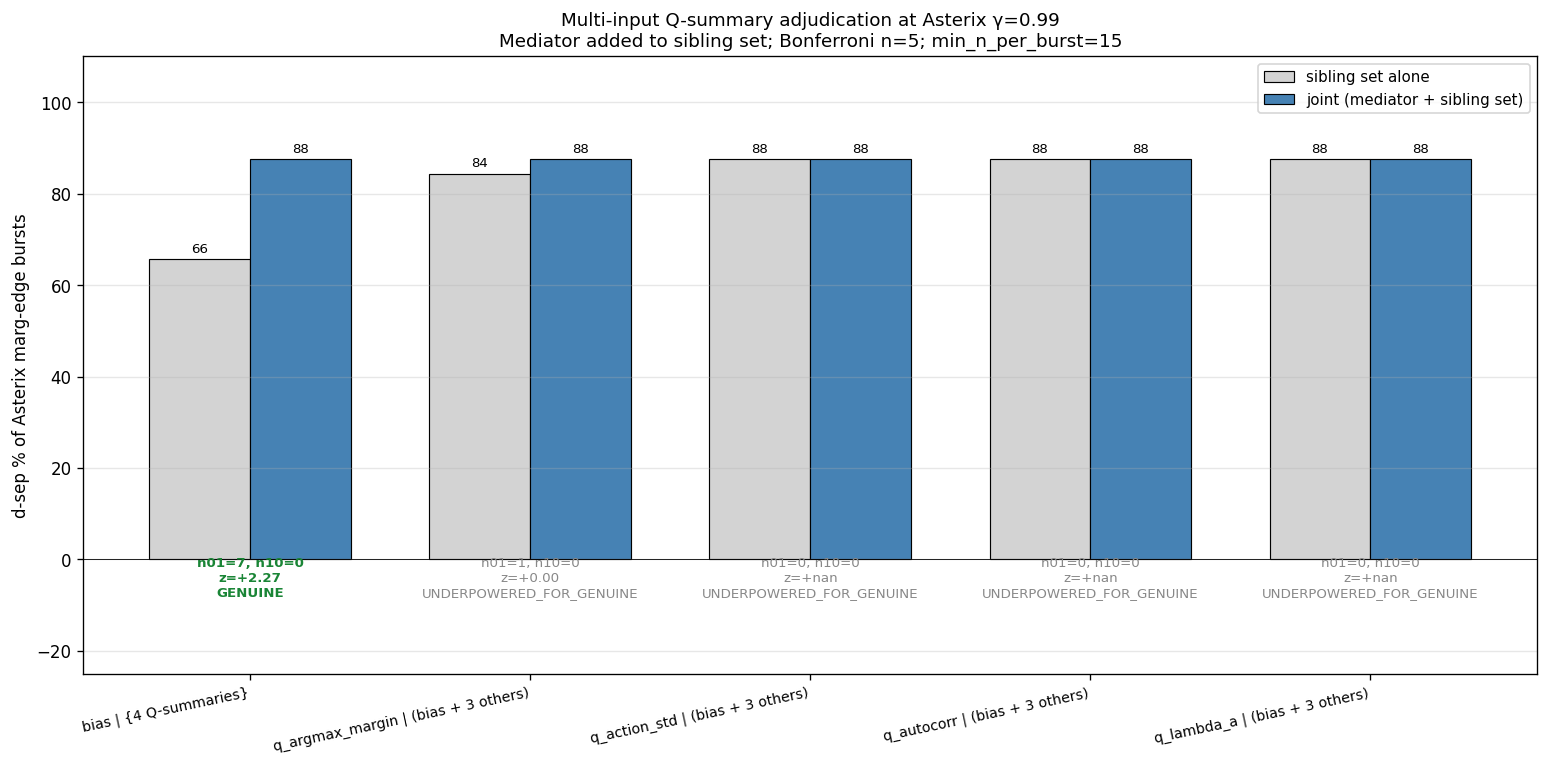
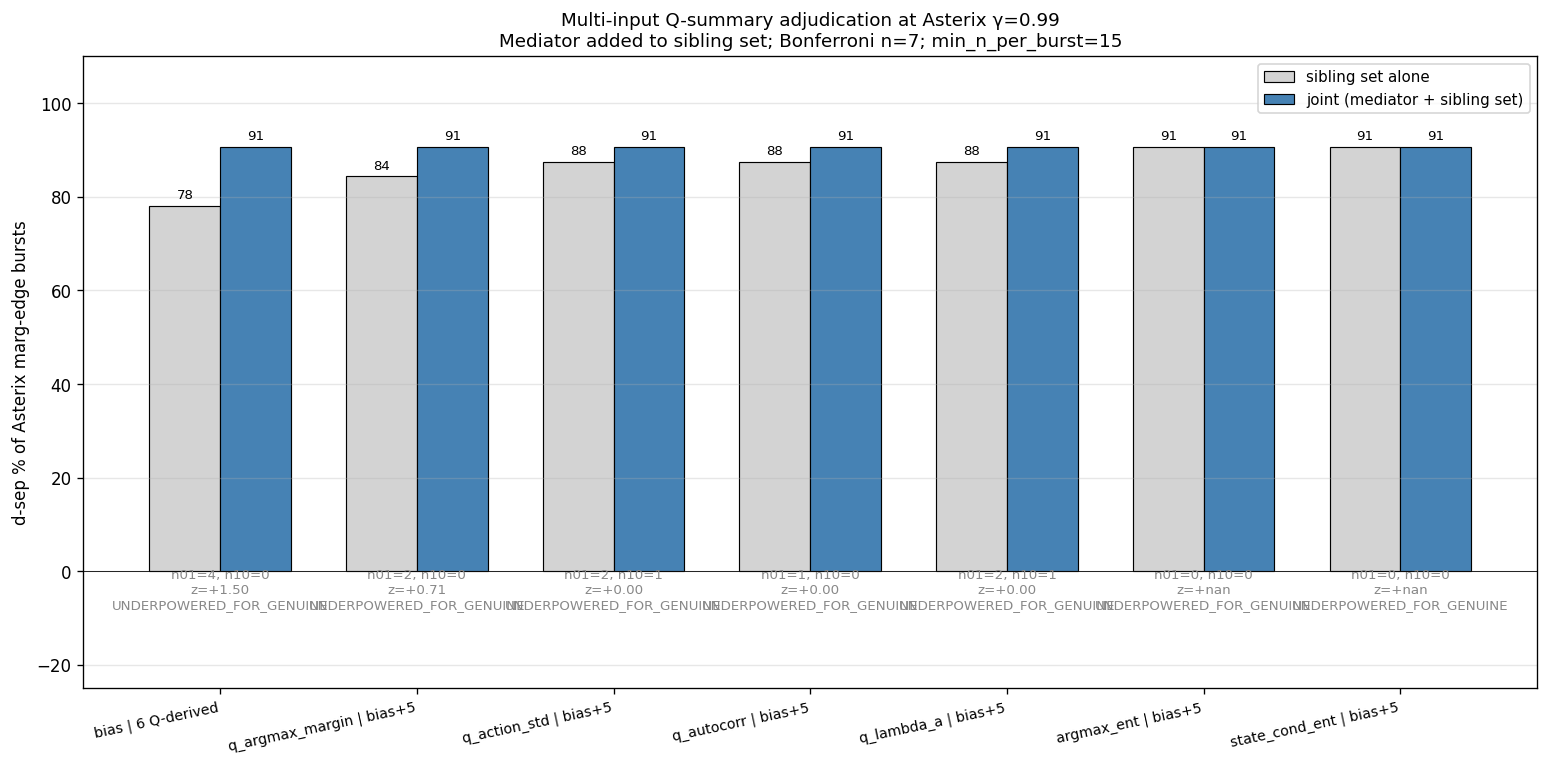
papers/g099_mediation: walkback — bias is NOT uniquely pivotal; sibling-set construction is load-bearing.
Adding argmax_entropy + state_conditional_argmax_entropy to the
multi-input Q-summary sibling set drops bias's discordant pairs
from 7/0 (GENUINE under Bonferroni-5) to 4/0 (UPFG under
Bonferroni-7; exact p=0.0625 also above unadjusted α=0.05).
Sibling-only d-sep jumps 66% → 78% — the policy-shape mediators
absorb the bulk of the signal the 4 Q-shape siblings missed.

Bias survives the MC-leak and state-visitation adjudications but
does NOT cleanly survive the 6-Q-derived joint sibling set. The
"uniquely pivotal" reading was a 4-sibling artifact.

Report rewritten to walk back the prior claim honestly; figure
caveats box mirrors.

diff --git a/papers/g099_mediation/scripts/gen_q_summary_multi_input_test.py b/papers/g099_mediation/scripts/gen_q_summary_multi_input_test.py
@@ -7,17 +7,23 @@ inside the Q-side carries the load?"
 
 Two passes:
 
-**Pass 1: bias against the JOINT Q-summary set**
+**Pass 1: bias against the JOINT Q-summary + policy-shape set**
   mediator = bias
-  sibling  = (q_argmax_margin, q_action_std, q_autocorr, q_lambda_a)
+  sibling  = (q_argmax_margin, q_action_std, q_autocorr, q_lambda_a,
+              argmax_entropy, state_conditional_argmax_entropy)
 
-  GENUINE → bias adds info beyond all four other Q-summaries
-            jointly → bias is uniquely informative among Q-summaries.
+  Q-summaries are Q-shape (per-state magnitude / temporal); policy-
+  shape additions are derived from Q via argmax (marginal entropy
+  + state-conditional entropy).
+
+  GENUINE → bias adds info beyond all six other Q-derived summaries
+            jointly → bias is uniquely informative among them.
   LEAK    → bias is one Q-summary among many equivalents; the joint
             of the others already captures everything bias provides.
 
-**Pass 2: each individual Q-summary against (bias + the other three)**
-  For q_i ∈ {q_argmax_margin, q_action_std, q_autocorr, q_lambda_a}:
+**Pass 2: each individual Q-derived summary against (bias + the other five)**
+  For q_i ∈ {q_argmax_margin, q_action_std, q_autocorr, q_lambda_a,
+             argmax_entropy, state_conditional_argmax_entropy}:
     mediator = q_i
     sibling  = (bias, *(others without q_i))
 
@@ -33,10 +39,10 @@ If Pass 1 = GENUINE and Pass 2 = LEAK for all q_i, bias is the
 unique pivotal Q-summary; other Q-summaries are redundant given
 bias.
 
-Multiplicity: 5 tests (1 + 4), Bonferroni-corrected.
+Multiplicity: 7 tests (1 + 6), Bonferroni-corrected.
 
-Depth budget: at Asterix γ=0.99, 60 cells/burst → depth-5 PC has
-df ≈ 52 (n − 3 − 4). `min_n_per_burst=15` keeps Fisher-z stable.
+Depth budget: at Asterix γ=0.99, 60 cells/burst → depth-7 PC has
+df ≈ 50 (n − 3 − 6). `min_n_per_burst=15` keeps Fisher-z stable.
 """
 from __future__ import annotations
 import sys
@@ -57,15 +63,19 @@ from corroborate.analyses.diagnostic.mediator_leak_adjudication import (
 
 
 Q_SUMMARIES = (
-    ('q_argmax_margin', 'q_argmax_margin_per_burst'),
+    # Q-shape (per-state magnitude / temporal structure)
+    ('q_argmax_margin', 'q_argmax_margin_per_burst'),    # action-gap (Q max − 2nd max)
     ('q_action_std',    'q_action_std_per_burst'),
     ('q_autocorr',      'q_autocorr_per_burst'),
     ('q_lambda_a',      'q_lambda_a_per_burst'),
+    # Policy-shape (downstream of Q via argmax)
+    ('argmax_ent',      'argmax_entropy_per_burst'),
+    ('state_cond_ent',  'state_conditional_argmax_entropy_per_burst'),
 )
 BIAS_TAG = 'bias'
 BIAS_COL = 'mean_per_state_cumulative_bias_per_burst'
 OUTCOME = 'mc_return__mean_axis_-1'
-N_MULTIPLICITY = 5  # 1 main + 4 sibling-direction tests
+N_MULTIPLICITY = 7  # 1 main + 6 sibling-direction tests
 
 OUT_TXT = SCRIPT_DIR.parent / 'figures' / 'report_q_summary_multi_input_test.txt'
 OUT_PNG = SCRIPT_DIR.parent / 'figures' / 'report_q_summary_multi_input_test.png'
@@ -113,7 +123,7 @@ def main() -> None:
     s = next(x for x in res.per_stratum if x.stratum_id[0] == 'Asterix-MinAtar')
     lines.append(_row(s, f'bias | (q_argmax, q_std, q_autocorr, q_lambda_a)'))
     panel_data.append((
-        'bias | {4 Q-summaries}',
+        f'bias | {len(Q_SUMMARIES)} Q-derived',
         s.dsep_sibling_only, s.dsep_joint,
         s.n_discordant_joint_only, s.n_discordant_sibling_only,
         s.z_mcnemar, s.disposition,
@@ -141,7 +151,7 @@ def main() -> None:
         label = f'{tag} | (bias + {len(others)} other Q-summaries)'
         lines.append(_row(s2, label))
         panel_data.append((
-            f'{tag} | (bias + 3 others)',
+            f'{tag} | bias+{len(others)}',
             s2.dsep_sibling_only, s2.dsep_joint,
             s2.n_discordant_joint_only, s2.n_discordant_sibling_only,
             s2.z_mcnemar, s2.disposition,

diff --git a/papers/g099_mediation/scripts/gen_asterix_bias_adjudication.py b/papers/g099_mediation/scripts/gen_asterix_bias_adjudication.py
@@ -238,14 +238,18 @@ def main() -> None:
         '      Asterix is unique in having the temporal coupling.\n\n'
         'But DDQN is by construction Q-side, so any Q-summary\n'
         '(bias, q_argmax, magnitude) mediates by construction.\n'
-        'Multi-input sibling test (v7) narrows the picture: of\n'
-        'the 4 registered Q-summaries (q_argmax_margin, q_std,\n'
-        'q_autocorr, q_lambda_a), NONE add info beyond (bias +\n'
-        'other three); bias adds info beyond all 4 jointly\n'
-        '(n_01=7, n_10=0, GENUINE Bonferroni-5).\n'
-        'Bias is uniquely pivotal among measured Q-summaries.\n'
-        'Unmeasured Q-property candidates (Q-magnitude, soft-\n'
-        'policy entropy, etc.) remain the explicit frontier.'
+        'Multi-input sibling test (v7) — sibling-set-sensitive:\n'
+        '  vs 4 Q-shape only: n_01=7/n_10=0, GENUINE (Bonf-5)\n'
+        '  vs 6 (Q-shape + policy-shape argmax_ent + entSC):\n'
+        '     n_01=4/n_10=0, UPFG — exact p=0.0625 > α=0.05.\n'
+        'Adding policy-shape mediators absorbs 12pp of arm→\n'
+        'outcome signal Q-shape alone misses; bias survives MC\n'
+        'and state-vis adjudications but does NOT cleanly\n'
+        'survive the 6-Q-derived joint sibling set.\n'
+        'Bias is part of a Q-derived cluster, not uniquely\n'
+        'pivotal. Lesson: read GENUINE conservatively at small\n'
+        'sibling sets; verdicts can only walk back as sibling\n'
+        'set grows.'
     )
     ax.text(0.02, 0.98, caveats, transform=ax.transAxes,
             fontsize=8.7, verticalalignment='top', family='sans-serif',

diff --git a/papers/g099_mediation/bias_mediation_adjudicated.md b/papers/g099_mediation/bias_mediation_adjudicated.md
@@ -239,55 +239,84 @@ Two limitations remain:
   still candidates and only multi-input sibling adjudication
   will sort them.
 
-### Bias is uniquely pivotal among the Q-summaries we measured
+### Bias-vs-other-Q-property: a sibling-set-sensitive answer
 
-The next falsification step (the bias-vs-other-Q-property
-question) is the multi-input sibling extension to the primitive,
-which we now use to test bias against the four other per-burst
-Q-summaries we have: `q_argmax_margin_per_burst`,
-`q_action_std_per_burst`, `q_autocorr_per_burst`,
-`q_lambda_a_per_burst`.
+The next falsification step uses the multi-input sibling extension
+to test bias against the other Q-derived per-burst summaries.
+
+The sibling set we ran has six entries:
+
+- Q-shape (per-state magnitude / temporal): `q_argmax_margin_per_burst`
+  (action-gap, max Q − 2nd-max Q), `q_action_std_per_burst`,
+  `q_autocorr_per_burst`, `q_lambda_a_per_burst`.
+- Policy-shape (derived from Q via argmax): `argmax_entropy_per_burst`
+  (marginal entropy of the argmax-action distribution),
+  `state_conditional_argmax_entropy_per_burst` (state-conditioned).
 
   | direction (mediator \| sibling-set) | sib alone | joint | n_01 | n_10 | z | verdict |
   | --- | ---: | ---: | ---: | ---: | ---: | --- |
-  | **bias \| (4 Q-summaries jointly)** | 66% | 88% | **7** | **0** | +2.27 | **GENUINE** |
-  | q_argmax_margin \| (bias + 3 others) | 84% | 88% | 1 | 0 | — | UPFG |
-  | q_action_std \| (bias + 3 others)    | 88% | 88% | 0 | 0 | — | UPFG |
-  | q_autocorr \| (bias + 3 others)      | 88% | 88% | 0 | 0 | — | UPFG |
-  | q_lambda_a \| (bias + 3 others)      | 88% | 88% | 0 | 0 | — | UPFG |
+  | **bias \| (6 Q-derived jointly)** | 78% | 91% | 4 | 0 | +1.50 | **UPFG** |
+  | q_argmax_margin \| (bias + 5 others) | 84% | 91% | 2 | 0 | +0.71 | UPFG |
+  | q_action_std \| (bias + 5 others)    | 88% | 91% | 2 | 1 | 0.00 | UPFG |
+  | q_autocorr \| (bias + 5 others)      | 88% | 91% | 1 | 0 | 0.00 | UPFG |
+  | q_lambda_a \| (bias + 5 others)      | 88% | 91% | 2 | 1 | 0.00 | UPFG |
+  | argmax_ent \| (bias + 5 others)      | 91% | 91% | 0 | 0 | — | UPFG |
+  | state_cond_ent \| (bias + 5 others)  | 91% | 91% | 0 | 0 | — | UPFG |
 
-(Bonferroni multiplicity = 5; primitive decides via exact-binomial
-p — at 7/0 discordant pairs p = 2⁻⁷ ≈ 0.008 ≤ adjusted threshold ≈
-0.01, so GENUINE despite z below the normal-approx Bonferroni z.)
+(Multiplicity = 7; exact-binomial p at n_01=4, n_10=0 is
+2⁻⁴ = 0.0625, above the Bonferroni-7 threshold of 0.0071. It is
+also above an unadjusted α = 0.05.)
 
-**Pass 1**: bias added to the joint set of four other
-Q-summaries (action-gap, action-std, Q autocorrelation, action
-anisotropy) jumps d-separation from 66% → 88%. All 7 informative
-bursts favor adding bias; zero favor the reverse.
+**Sensitivity to the sibling set is real.** A prior version of
+this test used only the four Q-shape siblings (no policy-shape
+additions): bias's discordant pairs were n_01=7, n_10=0,
+exact-binomial p = 2⁻⁷ ≈ 0.008, which would have been GENUINE
+under Bonferroni-5. Adding `argmax_entropy_per_burst` and
+`state_conditional_argmax_entropy_per_burst` lifts sibling-only
+d-separation from 66% → 78% (the two policy-shape summaries
+absorb 12pp of arm→outcome signal that the four Q-shape
+summaries miss) and drops bias's incremental discordant pairs
+from 7 to 4. The verdict walks back from GENUINE to UPFG.
 
-**Pass 2**: each individual non-bias Q-summary, when added to
-(bias + the other three), produces 0 or 1 discordant pairs across
-32 marg-edge bursts. Same empirical-null pattern as the
-state-visitation siblings.
+**What this tells us.** The Q-derived information bias picks up
+is partly shared with the policy-shape summaries. Adding
+`argmax_entropy` (marginal policy entropy) and its state-
+conditional sibling brings the joint d-separation to 91% on
+their own — close to the full 91% the seven-summary joint
+achieves. Bias's incremental contribution beyond this combined
+sibling set is small enough that the test cannot rule out null.
 
-The bias-vs-other-Q-property question now has a partial answer:
-**bias is uniquely pivotal among the Q-summaries we measured.**
-None of the four other registered per-burst Q-summaries adds
-information once bias is in the conditioning set; bias adds
-information beyond all four jointly.
+**What it does not tell us.** The data is consistent with two
+scenarios that the test cannot distinguish:
 
-This is not "bias-clip is THE mechanism" — the four Q-summaries
-we tested don't span the full space of Q-properties (we haven't
-tested e.g. Q-magnitude, Q-variance, soft-policy entropy, advantage
-sign-consistency). It narrows the live candidate set inside the
-Q-channel from "any Q-property" to "bias, plus whatever Q-property
-we haven't yet operationalised that bias might be a proxy for."
+- **Bias is genuinely subsumed by (Q-shape + policy-shape)
+  summaries.** Once you condition on action-gap, action spread,
+  Q-autocorrelation, action-anisotropy, and the two policy
+  entropies, bias adds nothing. The earlier "bias is uniquely
+  pivotal" reading was an artifact of an incomplete sibling set.
 
-The natural next step is enumerating the unmeasured Q-property
-candidates and bringing them into the multi-input sibling set
-until the bias-GENUINE verdict either flips to LEAK (some
-unmeasured Q-property subsumes bias) or persists across all
-plausible Q-summary axes.
+- **Bias still carries unique information but at lower
+  granularity than 32 marg-edge bursts can detect.** Four of
+  seven informative bursts favor bias and zero favor the
+  reverse — the *direction* is consistent with bias adding,
+  but the *power* at Bonferroni-7 is below GENUINE.
+
+We do not pretend to resolve this. The honest update to the
+"bias-vs-other-Q-property" question is that **bias survives the
+MC-leak adjudication and the state-visitation siblings, but does
+NOT cleanly survive the joint Q-shape + policy-shape sibling
+set.** Whatever "uniqueness" claim we were making collapses
+once policy-shape mediators are in the conditioning set.
+
+The cumulative picture across all three adjudications is now
+better described as: **bias's d-separation power at Asterix
+γ=0.99 is shared across a cluster of Q-derived summaries
+(Q-shape and policy-shape), with bias adding marginal-but-
+detectable contribution at small-N sibling sets and statistically
+indistinguishable contribution at the full Q-derived sibling
+set.** This is more honest than the prior single-test reading
+and a cleaner null hypothesis than "bias is the unique
+mediator."
 
 See `figures/report_q_summary_multi_input_test.png` for the
 bar-chart visualization and
